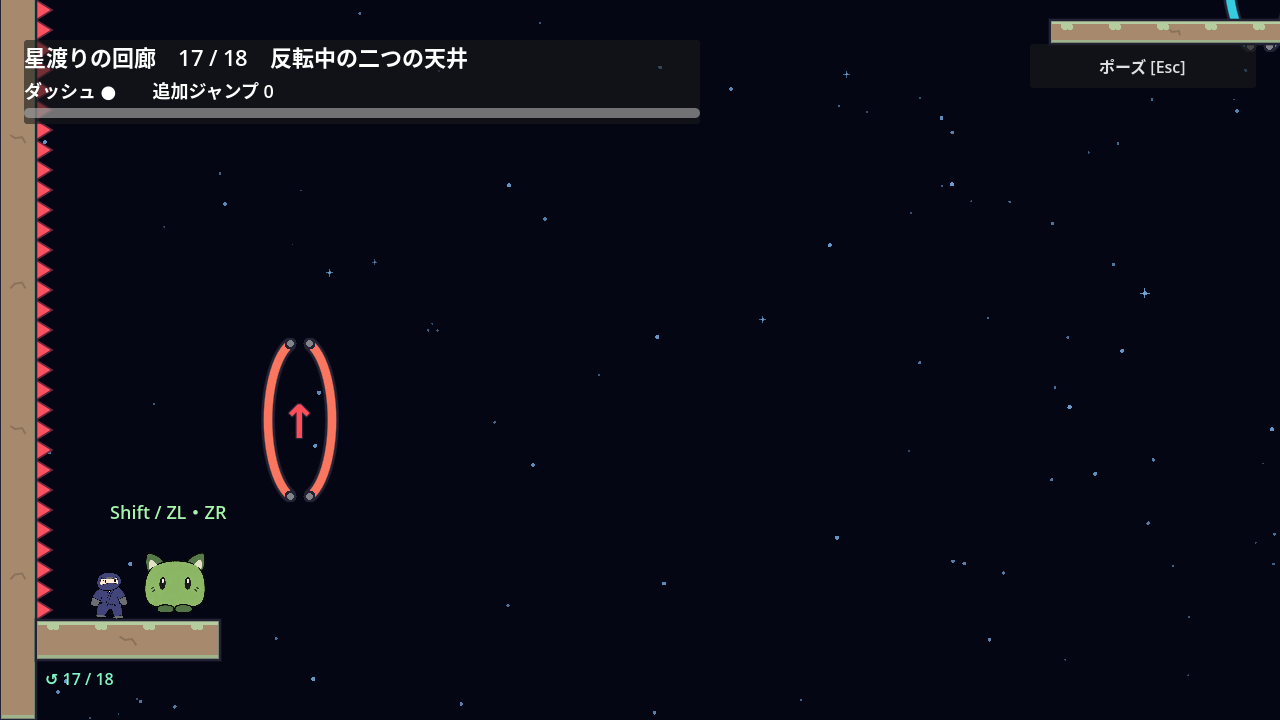
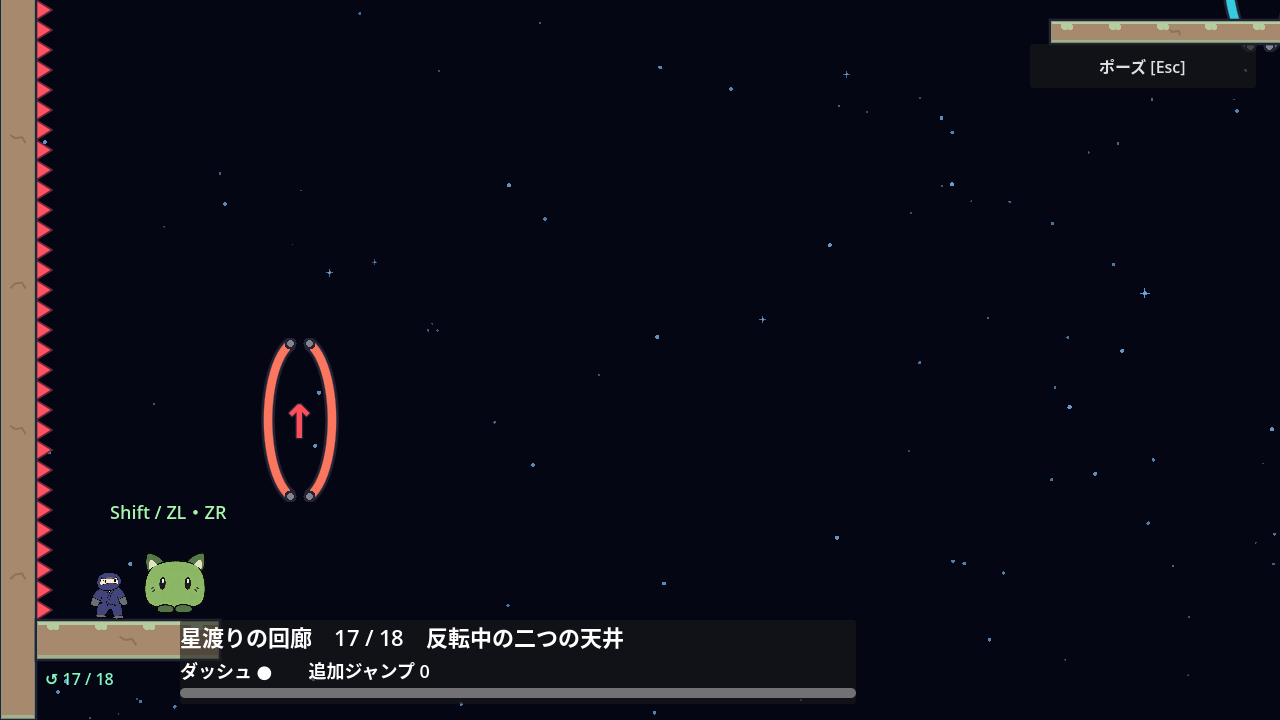
🐛 反転上昇中の主人公を隠す回廊の表示を修正

Changed region(s): [[0.125, 0.8556, 0.6875, 0.9778], [0.0, 0.0611, 0.5625, 0.1833]]

diff --git a/docs/companion-wide.md b/docs/companion-wide.md
@@ -24,7 +24,7 @@
 
 ## 実入力と保存の確認
 
-Godot 4.7.2、固定60fps。最終の `tests/corridor_wide_route_test.gd` は207項目が成功した。通常20fと実axis0.8の16/20/24fで新3室を通り、3秒静止から再出発して実Goalまたは次室へ到達する。通常転送以外の復帰はない。16/20/24fは離散的な代表入力であり、連続する全時機への保証とは扱わない。
+Godot 4.7.2、固定60fps。最終の `tests/corridor_wide_route_test.gd` は8,173項目が成功した（従来207項目に、第17室の全物理フレームの実体・相棒とHUDの観測を追加）。通常20fと実axis0.8の16/20/24fで新3室を通り、3秒静止から再出発して実Goalまたは次室へ到達する。通常転送以外の復帰はない。16/20/24fは離散的な代表入力であり、連続する全時機への保証とは扱わない。
 
 | 区間・枝 | 通常入力 | 実axis0.8 |
 | --- | ---: | ---: |
@@ -46,7 +46,7 @@ Godot 4.7.2、固定60fps。最終の `tests/corridor_wide_route_test.gd` は207
 
 ## 描画とカメラ
 
-描画の予備確認で、第16室の最初の休憩中に巻物がHUDへ重なり、第17室では反転した最初の天井から次の天井が画面下へ隠れていた。第16室のHUDをy80へ移し、第17室は反転中だけカメラを下へ120px寄せ、次の天井の着地面を静止中から見せる。休憩時の巻物とHUDの非交差、次の反転着地面の画面内とHUD非交差も自動検査する。第18室は既存の右下HUDを使い、入口の高い風と上層の巻物・足場を隠さない。
+描画の予備確認で、第16室の最初の休憩中に巻物がHUDへ重なり、第17室では反転した最初の天井から次の天井が画面下へ隠れていた。第16室のHUDをy80へ移し、第17室は反転中だけカメラを下へ120px寄せ、次の天井の着地面を静止中から見せる。休憩時の巻物とHUDの非交差、次の反転着地面の画面内とHUD非交差も自動検査する。第18室は既存の右下HUDを使い、入口の高い風と上層の巻物・足場を隠さない。独立レビューで第17室の初回Up上昇中に主人公が上HUDへ43〜44フレーム隠れる問題が再現したため、この室だけHUDを左下のx180・y620へ移した。入口の復帰表示、右の次天井、Downと帰路床も隠さない位置を実描画で確認し、上昇中の画像も残す。通常攻略を監視するフレーム検査は正例の_runでだけ有効にし、継承先のギミックを止めて落下する負例では適用しない。
 
 第16室は最初の高い回復列を見せる間だけ上方を広く取り、y1300より上では通常の縦視野へ戻す。巻物の棚で止まった時にも下の主経路の帰り先が画面へ収まる。両新枝の休憩後に、帰り先の着地面が画面内でHUDに隠れないことを実座標で確認する。
 
@@ -61,5 +61,7 @@ Godot 4.7.2、固定60fps。最終の `tests/corridor_wide_route_test.gd` は207
 旧第7〜9室と巻物の `tests/corridor_expansion_test.gd` は422項目が成功した。旧第14室の `--new-shaft` 比較も37項目・12経路、旧第8室も73項目・24経路が成功した。いずれも全経路で実際に手ぶらの壁登りを行い、壁キックの代用を再現しなかった。
 
 共通のクリア71・選択144・到着台表示388・未確定巻物の通常部屋転送48項目も最終配置で成功した。描画のV-Sync非対応の警告以外に、この最終実行の警告はない。
+
+独立レビューで、相棒を移動して背に乗る踏切とDown省略の138代表経路682項目、新対向壁の上投げ12経路43項目を再確認した。相棒Jumpを省いた最良の踏切も、最初の台の上面より足裏が約2.4px下に留まった。有限の踏切位置・時機の結果で、あらゆる連続入力の不可能を保証しない。
 
 本編9〜15分・巻物込み15〜24分の全体目標は未達である。実機パッドと初見の手動試遊は未確認であり、自動入力の成功時間を初見プレイ時間とは扱わない。
